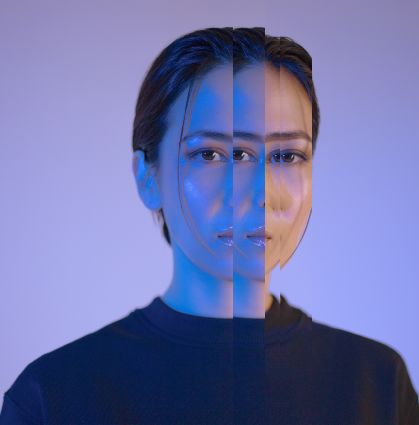
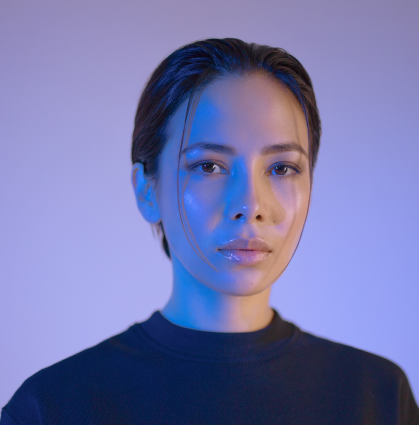
CSS GRID

Changed region(s): [[0.0, 0.0612, 1.0, 0.9788]]

diff --git a/portfolio.html b/portfolio.html
@@ -1,0 +1,70 @@
+<!DOCTYPE html>
+<html lang="fr">
+
+<head>
+    <meta charset="utf-8" >
+    <title>Portfolio - Robbie Lens Photographie</title>
+    <link href="style.css" rel="stylesheet" >
+    <link rel="preconnect" href="https://fonts.googleapis.com">
+    <link rel="preconnect" href="https://fonts.gstatic.com" crossorigin>
+    <link href="https://fonts.googleapis.com/css2?family=Manrope&family=Montserrat&display=swap" rel="stylesheet">
+</head>
+
+<body>
+    <header>
+        <nav>
+            <a href="index.html" class="lien-icone">
+                <img src="images/logo.png" alt="Logo Robbie Lens" >
+            </a>
+            <div>
+                <a href="index.html">Accueil</a>
+                <a href="a-propos.html">À propos</a>
+                <a href="portfolio.html">Portfolio</a>
+            </div>
+        </nav>
+    </header>
+    <main>
+        <section>
+            <h1>Portfolio</h1>
+        </section>
+
+        <section class="portfolio-section-photos">
+            <h2>Voyages</h2>
+            <div class="conteneurVoyages">
+                <div class="photoVoyage une"><img src="images/portfolio/paysage1.jpg" alt=""></div>
+                <div class="photoVoyage deux"><img src="images/portfolio/paysage2.jpg" alt=""></div>
+                <div class="photoVoyage trois"><img src="images/portfolio/paysage3.jpg" alt=""></div>
+                <div class="photoVoyage quattre"><img src="images/portfolio/paysage4.jpg" alt=""></div>
+                <div class="photoVoyage cinq"><img src="images/portfolio/paysage5.jpg" alt=""></div>
+                <div class="photoVoyage six"><img src="images/portfolio/paysage6.jpg" alt=""></div>
+                <div class="photoVoyage sept"><img src="images/portfolio/paysage7.jpg" alt=""></div>
+                <div class="photoVoyage huit"><img src="images/portfolio/paysage8.jpg" alt=""></div>
+            </div>
+            <h2>Portraits</h2>
+            <div class="conteneurPortraits">
+                <div class="photoPortrait une"><img src="images/portfolio/portrait1.jpg" alt=""></div>
+                <div class="photoPortrait deux"><img src="images/portfolio/portrait2.jpg" alt=""></div>
+                <div class="photoPortrait trois"><img src="images/portfolio/portrait3.jpg" alt=""></div>
+                <div class="photoPortrait quattre"><img src="images/portfolio/portrait4.jpg" alt=""></div>
+                <div class="photoPortrait cinq"><img src="images/portfolio/portrait5.jpg" alt=""></div>
+                <div class="photoPortrait six"><img src="images/portfolio/portrait6.jpg" alt=""></div>           
+            </div>
+            
+        </section>
+    </main>
+    <footer>
+        <a href="index.html" class="lien-icone">
+            <img src="images/logo.png" alt="Logo Robbie Lens" >
+        </a>
+        <div>
+            <a target="_blank" href="https://twitter.com/" class="lien-icone">
+                <img src="images/twitter.png" alt="Logo Twitter" >
+            </a>
+            <a target="_blank" href="https://www.instagram.com/" class="lien-icone">
+                <img src="images/instagram.png" alt="Logo Instagram" >
+            </a>
+        </div>
+    </footer>
+</body>
+
+</html>

diff --git a/style.css b/style.css
@@ -1,86 +1,90 @@
 * {
-    margin: 0;
-  }
-
-body{
-    /* Ici on utilise le sélecteur body pour appliquer une police et une taille par défaut pour les éléments */
-    font-family: 'Manrope', sans-serif;
-    font-size: 1em;
-    background-color: #1F2039;
+  margin: 0;
 }
 
-a{
-    color: #242424;
-    text-decoration: none;
+body {
+  font-family: 'Manrope', sans-serif;
+  font-size: 1em;
+  background-color: #1f2039;
 }
 
-em{
-    color: #A5B4FC;
-    font-style: normal;
+a {
+  color: #242424;
+  text-decoration: none;
 }
 
-h1{
-    font-size: 3.5em;
-    color: #A5B4FC;
-    font-family: "Montserrat", sans-serif;
+em {
+  color: #a5b4fc;
+  font-style: normal;
 }
 
-h2{
-    color: #F9F8FF;
+h1 {
+  font-size: 3.5em;
+  color: #a5b4fc;
+  font-family: 'Montserrat', sans-serif;
 }
 
-p, li{
-    font-size: 1.1em;
-    color: #F9F8FF;
+h2 {
+  color: #f9f8ff;
 }
 
-header,footer{
-    background-color: white;
-    padding: 20px 50px;
+p,
+li {
+  font-size: 1.1em;
+  color: #f9f8ff;
 }
 
-.cta{
-    background: linear-gradient(#8E86B5,#ACAEED);
-    color: white;
-    border-radius: 50px;
-    padding: 20px 30px;
+header,
+footer {
+  background-color: white;
+  padding: 20px 50px;
 }
 
-a:hover{
-    text-decoration: underline;
+.cta {
+  background: linear-gradient(#8e86b5, #acaeed);
+  color: white;
+  border-radius: 50px;
+  padding: 20px 30px;
 }
 
-.cta:hover{
-    background: linear-gradient(#696484,#8788BA);
-    text-decoration: none;
+a:hover {
+  text-decoration: underline;
 }
 
-.lien-icone:hover{
-    opacity: 0.5;
+.cta:hover {
+  background: linear-gradient(#696484, #8788ba);
+  text-decoration: none;
 }
 
-.carre-contenu{
-    border-bottom: 1px #8E86B5 solid;
-    border-right: #8E86B5 1px solid;
-    padding: 50px;
+.lien-icone {
+  margin-left: 30px;
 }
 
-.carre-contenu ul{
-    margin-top: 30px;
+.lien-icone:hover {
+  opacity: 0.5;
 }
 
-.carre-contenu h2{
-    margin-top: 30px;
+.carre-contenu {
+  border-right: 1px solid #8e86b5;
+  border-bottom: 1px solid #8e86b5;
+  padding: 50px;
 }
 
-section{
-    padding: 80px;
-    margin: auto;
+.carre-contenu h2 {
+  margin-top: 30px;
 }
 
-.a-propos-main{
-    width: 50%;
-    margin: auto;
+.carre-contenu ul {
+  margin-top: 30px;
+}
+
+section {
+  padding: 80px;
+}
+
+.a-propos-main {
+  width: 50%;
+  margin: auto;
 }
 
 footer,
@@ -120,4 +124,45 @@ nav a {
   width: 50%;
   align-items: center;
   margin: auto;
+}
+
+.conteneurVoyages {
+  display: grid;
+  grid-template-columns: 1fr 1fr 1fr;
+  grid-template-rows: 300px 300px 300px;
+  grid-gap: 15px;
+}
+
+.conteneurPortraits {
+  display: grid;
+  grid-template-columns: 1fr 1fr 1fr;
+  grid-template-rows: 300px 300px 300px;
+  grid-gap: 15px;
+}
+
+.conteneurVoyages .quattre {
+  grid-column-start: 1;
+   grid-column-end: 4;
+}
+.conteneurVoyages .cinq {
+  grid-column-start: 1;
+   grid-column-end: 4;
+}
+
+
+
+.conteneurVoyages img,
+.conteneurPortraits img {
+  width: 100%;
+  height: 100%;
+  object-fit: cover;
+}
+
+.portfolio-section-photos {
+  background-color: white;
+}
+
+.portfolio-section-photos h2 {
+  color: #242424;
+  margin-bottom: 80px;
 }

diff --git a/index.html b/index.html
@@ -18,8 +18,9 @@
         <nav>
             <img class="logo" src="images/logo.png" alt="Logo robbie lens">
             <div>
-                <a class="lienAccueil" href="index.html">Accueil</a>
-                <a class="lien-aPropos" href="a-propos.html">A-propos</a>
+                <a href="index.html">Accueil</a>
+                <a href="a-propos.html">À propos</a>
+                <a href="portfolio.html">Portfolio</a>
             </div>
         </nav>
     </header>

diff --git a/a-propos.html b/a-propos.html
@@ -20,9 +20,10 @@
             </a>
 
             <div>
-            <a href="index.html">Accueil</a>
-            <a href="a-propos.html">À propos</a>
-        </div>
+                <a href="index.html">Accueil</a>
+                <a href="a-propos.html">À propos</a>
+                <a href="portfolio.html">Portfolio</a>
+            </div>
         </nav>
     </header>
 
